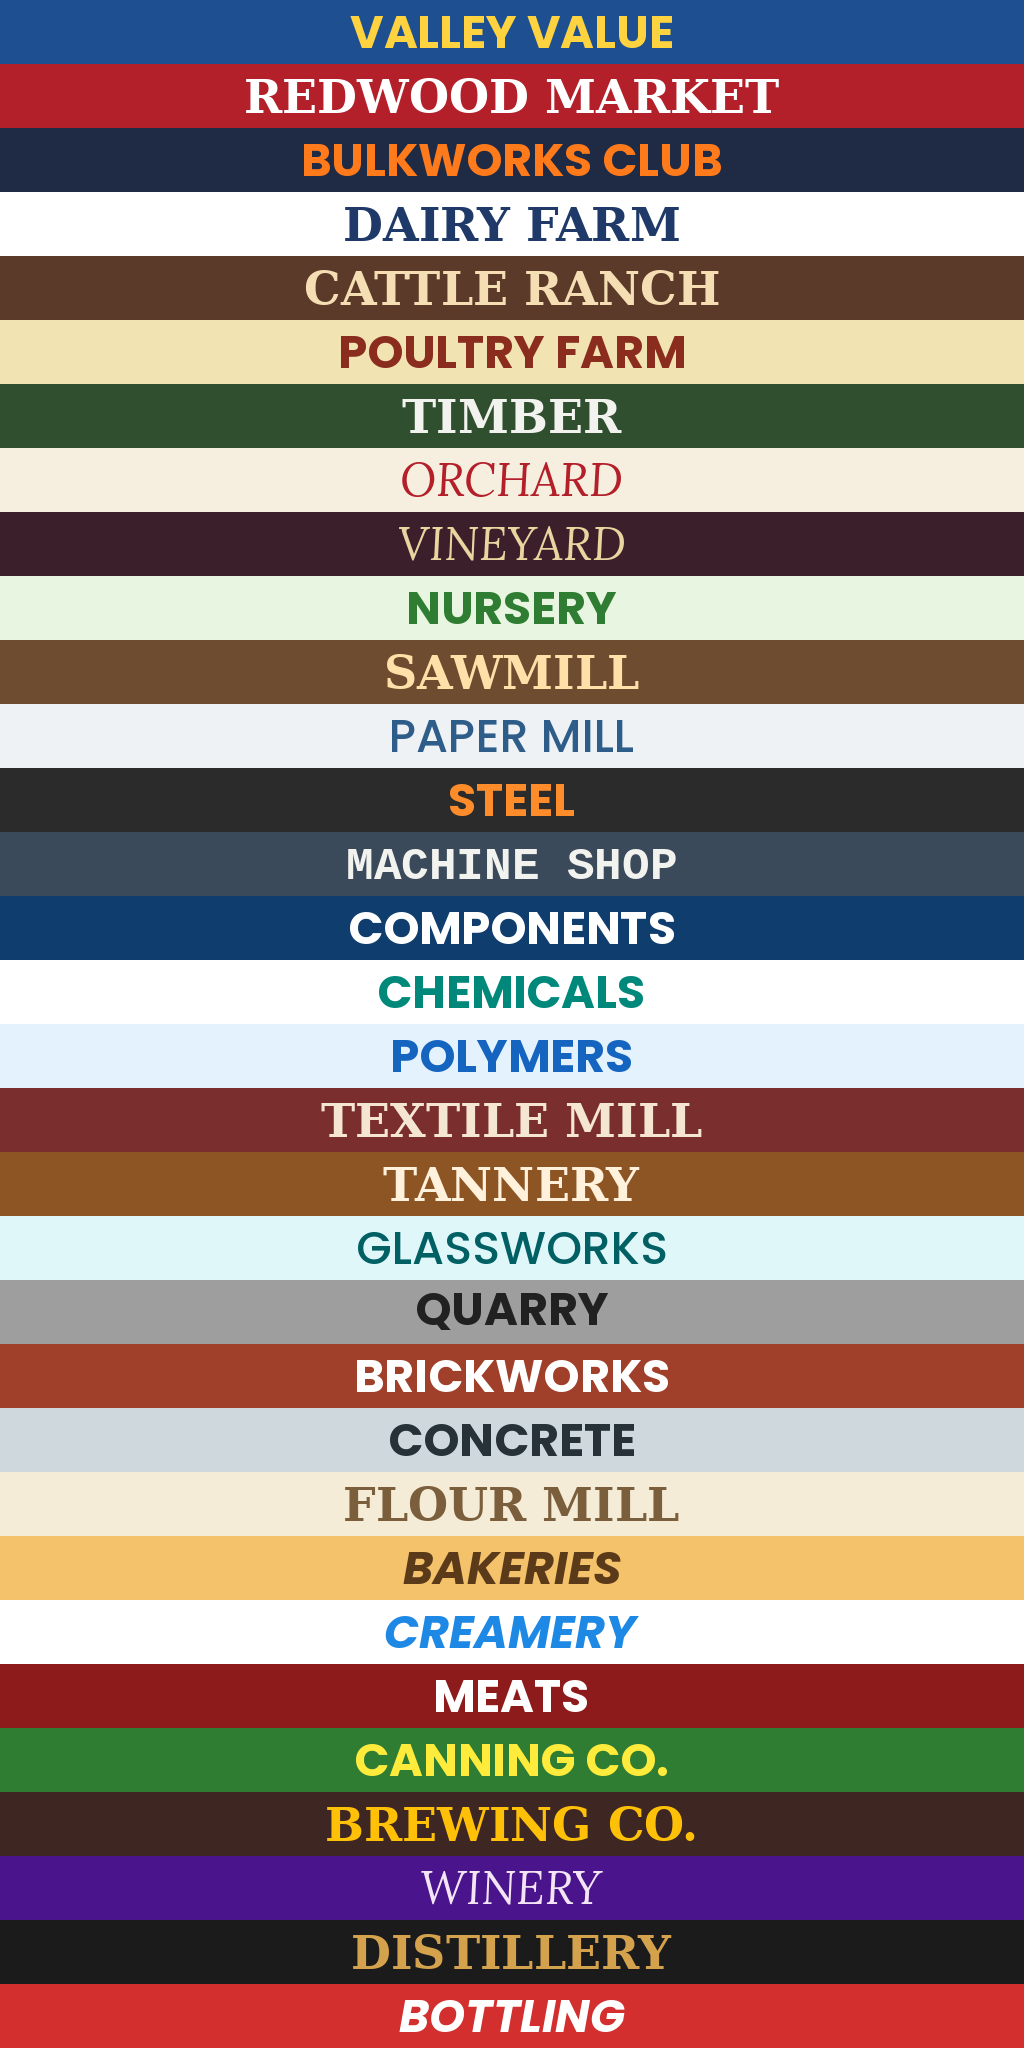
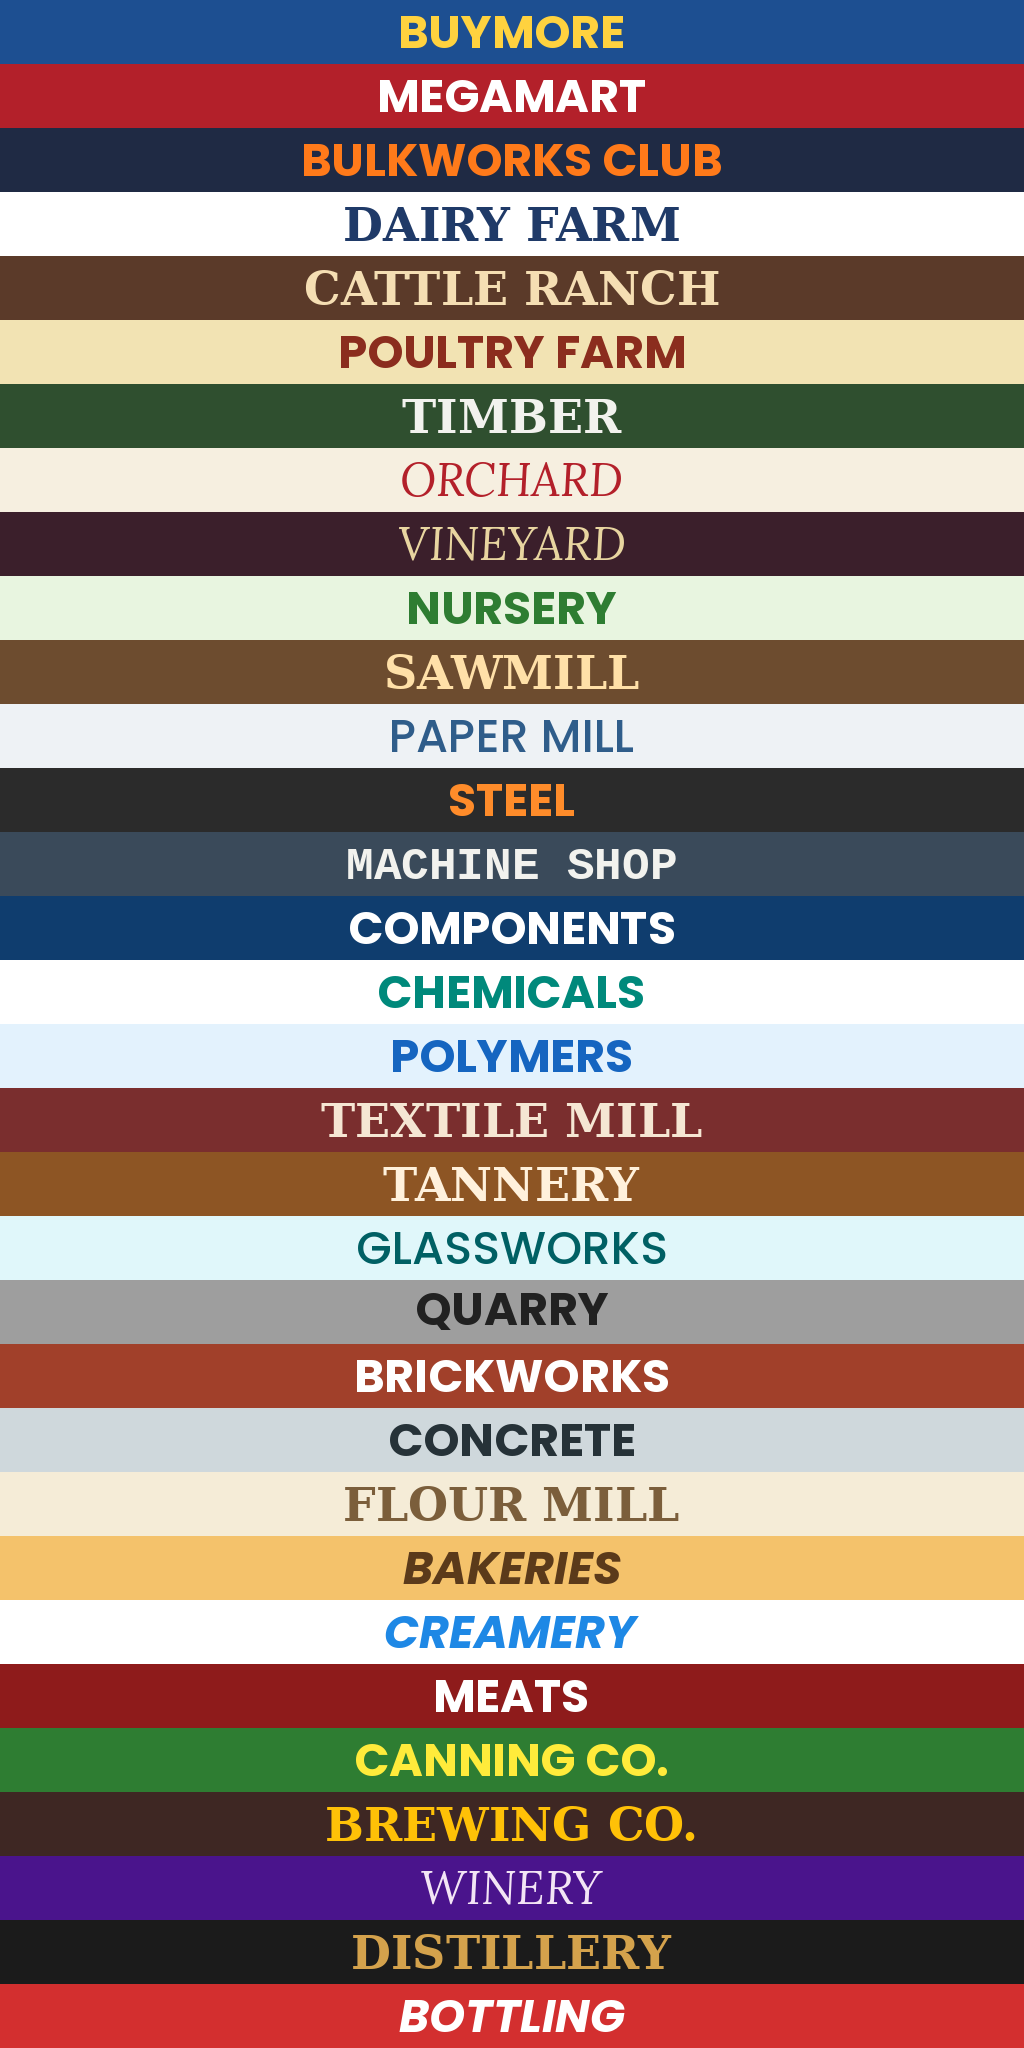
Rename the grocery chains: Valley Value is now Buymore, Redwood Market Megamart
New signs, names, head offices and README; saves are migrated so existing
stores and head offices change their names and signs.

Claude-Session: https://claude.ai/code/session_01XaPpYLet6fNpWnfpmq4pwc

Changed region(s): [[0.2188, 0.0, 0.75, 0.0625]]

diff --git a/Assets/Scripts/Simulation/Defs.cs b/Assets/Scripts/Simulation/Defs.cs
@@ -92,7 +92,7 @@ namespace RealLife.Simulation
         // Visitors and the rest
         Motel, Hotel, BedAndBreakfast, FuneralHome, TaxiCompany,
         // the grocery chains' head offices
-        ValleyValueOffice, RedwoodOffice, BulkworksOffice
+        BuymoreOffice, MegamartOffice, BulkworksOffice
     }
 
     public enum Role
@@ -428,12 +428,12 @@ namespace RealLife.Simulation
             d = D(BuildingType.Park, "Park", 2, 2, Category.Public, Zone.None, 60000, 30, "Somewhere to go for free. Makes the neighbourhood nicer.");
             d.Jobs = J(Role.ParkKeeper, 1); d.Radius = 12; d.Upkeep = 500; d.PlayerBuilds = true;
             // the grocery chains: a local company opens the first store, and another as the town grows
-            d = D(BuildingType.DiscountStore, "Discount supermarket", 3, 3, Category.Commercial, Zone.Commercial, 300000, 220, "A big no-frills grocery store: the lowest prices in town, bought in bulk. The first Valley Value opens when there's a town big enough to fill it; another for every few hundred more households.");
+            d = D(BuildingType.DiscountStore, "Discount supermarket", 3, 3, Category.Commercial, Zone.Commercial, 300000, 220, "A big no-frills grocery store: the lowest prices in town, bought in bulk. The first Buymore opens when there's a town big enough to fill it; another for every few hundred more households.");
             d.Jobs = J(Role.StoreManager, 1, Role.Cashier, 6, Role.StockClerk, 4); d.Sells = Good.Groceries; d.StockCap = 3000; d.Output = 120; d.MinPop = 500; d.Value = 800000;
-            d.Chain = "Valley Value"; d.PriceFactor = 1.0f; d.BulkBuy = 0.88f; d.Appeal = -0.03f; d.PopPerStore = 1100;
-            d = D(BuildingType.Supermarket, "Supermarket", 3, 3, Category.Commercial, Zone.Commercial, 360000, 240, "A bright, well-stocked grocery store: dearer than the discounter, but the families who can afford to care prefer it. Redwood Market comes to bigger towns.");
+            d.Chain = "Buymore"; d.PriceFactor = 1.0f; d.BulkBuy = 0.88f; d.Appeal = -0.03f; d.PopPerStore = 1100;
+            d = D(BuildingType.Supermarket, "Supermarket", 3, 3, Category.Commercial, Zone.Commercial, 360000, 240, "A bright, well-stocked grocery store: dearer than the discounter, but the families who can afford to care prefer it. Megamart comes to bigger towns.");
             d.Jobs = J(Role.StoreManager, 1, Role.Cashier, 5, Role.StockClerk, 4); d.Sells = Good.Groceries; d.StockCap = 2500; d.Output = 100; d.MinPop = 950; d.Value = 900000;
-            d.Chain = "Redwood Market"; d.PriceFactor = 1.1f; d.BulkBuy = 0.9f; d.Appeal = 0.12f; d.PopPerStore = 1600;
+            d.Chain = "Megamart"; d.PriceFactor = 1.1f; d.BulkBuy = 0.9f; d.Appeal = 0.12f; d.PopPerStore = 1600;
             d = D(BuildingType.WarehouseClub, "Warehouse club", 4, 4, Category.Commercial, Zone.Commercial, 500000, 320, "Groceries by the pallet at the lowest prices of all, for those who drive: you can't carry a month's shopping home on the bus. Bulkworks Club comes to big towns.");
             d.Jobs = J(Role.StoreManager, 1, Role.Cashier, 4, Role.StockClerk, 4, Role.WarehouseWorker, 3); d.Sells = Good.Groceries; d.StockCap = 6000; d.Output = 160; d.MinPop = 1800; d.Value = 1250000;
             d.Chain = "Bulkworks Club"; d.PriceFactor = 0.9f; d.BulkBuy = 0.8f; d.Appeal = 0f; d.PopPerStore = 3000; d.NeedsCar = true; d.Floors = 2;

diff --git a/Assets/Scripts/Game/Art/BuildingArt.Offices.cs b/Assets/Scripts/Game/Art/BuildingArt.Offices.cs
@@ -26,8 +26,8 @@ namespace RealLife.Game.Art
                 case BuildingType.BedAndBreakfast: BedAndBreakfast(k, w, d, ref s, closed, season); break;
                 case BuildingType.FuneralHome: FuneralHome(k, w, d, ref s, closed, season); break;
                 case BuildingType.TaxiCompany: Taxi(k, w, d, ref s, closed, season); break;
-                case BuildingType.ValleyValueOffice:
-                case BuildingType.RedwoodOffice:
+                case BuildingType.BuymoreOffice:
+                case BuildingType.MegamartOffice:
                 case BuildingType.BulkworksOffice: ChainOffice(k, w, d, ref s, closed, season, t); break;
                 default:
                     // anything still without a model of its own: a plain shop with its sign
@@ -301,9 +301,9 @@ namespace RealLife.Game.Art
         {
             Sidewalk(k, w, d);
             string upper; Color32 band, accent; int sign;
-            if (t == BuildingType.RedwoodOffice) { upper = "fac_apt_cream"; band = H("#b3202a"); accent = H("#f5f6fa"); sign = SignRow.Redwood; }
+            if (t == BuildingType.MegamartOffice) { upper = "fac_apt_cream"; band = H("#b3202a"); accent = H("#f5f6fa"); sign = SignRow.Megamart; }
             else if (t == BuildingType.BulkworksOffice) { upper = "fac_metal_grey"; band = H("#1f2a44"); accent = H("#ff7a1a"); sign = SignRow.Bulkworks; }
-            else { upper = "fac_glass_blue"; band = H("#1d4f91"); accent = H("#ffd23f"); sign = SignRow.ValleyValue; }
+            else { upper = "fac_glass_blue"; band = H("#1d4f91"); accent = H("#ffd23f"); sign = SignRow.Buymore; }
             var skin = new Skin { Upper = upper, Floor = 3.4f, Bay = 3f, Ground = "gf_lobby", GroundH = 4.2f, Wall = "wall_stucco", Coping = band, Glow = 1.4f };
             float x0 = -w / 2 + 0.5f, x1 = w / 2 - 0.5f, z0 = -d / 2 + 2.4f, z1 = d / 2 - 0.5f;
             float top = Block(k, x0, x1, z0, z1, skin, 2, (int)(Next(ref s) % 4), 0, true, true, "roof_membrane", season, closed);

diff --git a/Assets/Scripts/Game/Art/BuildingArt.Public.cs b/Assets/Scripts/Game/Art/BuildingArt.Public.cs
@@ -558,8 +558,8 @@ namespace RealLife.Game.Art
             Material wall, band, accent;
             int sign;
             if (club) { wall = T("metal_panel", new Color(0.72f, 0.75f, 0.78f)); band = C(H("#1f2a44"), 0.35f); accent = C(H("#ff7a1a"), 0.35f); sign = SignRow.Bulkworks; }
-            else if (nice) { wall = T("wall_stucco", new Color(0.93f, 0.88f, 0.8f)); band = C(H("#b3202a"), 0.4f); accent = C(H("#f5f6fa"), 0.35f); sign = SignRow.Redwood; }
-            else { wall = T("metal_panel", new Color(0.9f, 0.91f, 0.93f)); band = C(H("#1d4f91"), 0.35f); accent = C(H("#ffd23f"), 0.35f); sign = SignRow.ValleyValue; }
+            else if (nice) { wall = T("wall_stucco", new Color(0.93f, 0.88f, 0.8f)); band = C(H("#b3202a"), 0.4f); accent = C(H("#f5f6fa"), 0.35f); sign = SignRow.Megamart; }
+            else { wall = T("metal_panel", new Color(0.9f, 0.91f, 0.93f)); band = C(H("#1d4f91"), 0.35f); accent = C(H("#ffd23f"), 0.35f); sign = SignRow.Buymore; }
             var faces = Faces(x0, x1, z0, z1);
             var front = faces[South];
             float W = front.Width, g0 = W * 0.38f, g1 = W * 0.62f;
@@ -785,8 +785,8 @@ namespace RealLife.Game.Art
                 case BuildingType.Trucking:
                 case BuildingType.BusDepot: return 9.2f;
                 case BuildingType.Hotel: return 26;
-                case BuildingType.ValleyValueOffice:
-                case BuildingType.RedwoodOffice:
+                case BuildingType.BuymoreOffice:
+                case BuildingType.MegamartOffice:
                 case BuildingType.BulkworksOffice: return 12;
                 case BuildingType.Cinema:
                 case BuildingType.ClimbingGym:

diff --git a/Assets/Scripts/Simulation/Town.Ownership.cs b/Assets/Scripts/Simulation/Town.Ownership.cs
@@ -366,6 +366,16 @@ namespace RealLife.Simulation
             MapVersion++;
         }
 
+        /// <summary>Valley Value became Buymore, and Redwood Market Megamart: the stores and head offices change their signs.</summary>
+        void RenameChains()
+        {
+            foreach (var b in Buildings)
+            {
+                if (b.Brand != null) b.Brand = b.Brand.Replace("Valley Value", "Buymore").Replace("Redwood Market", "Megamart");
+                if (b.OwnerName != null) b.OwnerName = b.OwnerName.Replace("Valley Value", "Buymore").Replace("Redwood Market", "Megamart");
+            }
+        }
+
         /// <summary>Brings a game saved before everything was locally owned up to date: firms out of town sell to families and
         /// property firms here, and farms get farmland.</summary>
         public void Migrate()
@@ -376,6 +386,7 @@ namespace RealLife.Simulation
                 if (SaveVersion < 3) MigrateCars();
                 if (SaveVersion < 4) MigrateFlats();
                 if (SaveVersion < 5) WindDownContracts();
+                if (SaveVersion < 6) RenameChains();
                 SaveVersion = CurrentVersion; return;
             }
             foreach (var b in Buildings)

diff --git a/Assets/Scripts/Simulation/Catalog.cs b/Assets/Scripts/Simulation/Catalog.cs
@@ -492,8 +492,8 @@ namespace RealLife.Simulation
             d.In(Good.Toiletries, 0.4f).In(Good.Groceries, 0.12f); d.Floors = 2;
             Fun(BuildingType.FuneralHome, "Funeral home", 1, 1, 150000, 60, 300000, Service.Funeral, 8500, 2, 1500, 4000, " Funeral Home", "Funerals for the town's dead. Families pay, here or in the next town.", 0, Role.Mortician, 1);
             // ---------------------------------------------------------------- the grocery chains' head offices
-            HeadOffice(BuildingType.ValleyValueOffice, BuildingType.DiscountStore);
-            HeadOffice(BuildingType.RedwoodOffice, BuildingType.Supermarket);
+            HeadOffice(BuildingType.BuymoreOffice, BuildingType.DiscountStore);
+            HeadOffice(BuildingType.MegamartOffice, BuildingType.Supermarket);
             HeadOffice(BuildingType.BulkworksOffice, BuildingType.WarehouseClub);
 
             d = Fun(BuildingType.TaxiCompany, "Taxi company", 1, 1, 80000, 30, 170000, Service.Rides, 20, 60, 400, 1500, " Taxi", "Rides for people without a car.", 0, Role.Driver, 3);

diff --git a/Assets/Scripts/Simulation/Town.Chains.cs b/Assets/Scripts/Simulation/Town.Chains.cs
@@ -5,7 +5,7 @@ using System.Linq;
 namespace RealLife.Simulation
 {
     /// <summary>
-    /// The grocery chains: Valley Value (the discounter), Redwood Market (the nicer supermarket) and Bulkworks Club (the
+    /// The grocery chains: Buymore (the discounter), Megamart (the nicer supermarket) and Bulkworks Club (the
     /// warehouse club, for drivers). Each is a company here: a local family opens the first store when the town's grocery
     /// shopping would keep one going (sooner if the grocers here are dear), and the chain opens another as the town grows and
     /// its stores fill up. They buy in bulk and sell cheaper than a corner grocery; the small grocers keep the people who walk

diff --git a/tools/SimTest/Program.cs b/tools/SimTest/Program.cs
@@ -57,6 +57,8 @@ static class Program
             for (int y = 64; y < 75; y++) for (int x = 38; x < 56; x++) t.SetZone(x, y, Zone.Residential);
             for (int x = 38; x <= 56; x++) t.PlaceRoad(x, 70);
         }
+        if (Environment.GetEnvironmentVariable("BRANDS") == "1")
+            foreach (var b in t.Buildings.Where(x => !string.IsNullOrEmpty(x.Brand) && Town.ChainOf(x) != null)) Console.WriteLine("  brand " + b.Type + " " + b.Brand + " / " + b.OwnerName);
         Header();
         Row(t);
         int firstDay = t.Day;

diff --git a/Assets/Scripts/Game/Art/BuildingArt.cs b/Assets/Scripts/Game/Art/BuildingArt.cs
@@ -13,7 +13,7 @@ namespace RealLife.Game.Art
             Elementary = 19, HighSchool = 20, College = 21, BusDepot = 22, Logistics = 23, Builders = 24, Foods = 25, ApparelCo = 26, Tech = 27,
             Workshop = 28, Apartments = 29, RealEstate = 30, Open = 31,
             // the second atlas (signs2): the grocery chains
-            ValleyValue = 32, Redwood = 33, Bulkworks = 34;
+            Buymore = 32, Megamart = 33, Bulkworks = 34;
     }
 
     /// <summary>

diff --git a/tools/textures/signs.py b/tools/textures/signs.py
@@ -49,8 +49,8 @@ SIGNS = [
 
 # the second atlas (signs2.png): the grocery chains. Its rows are SignRow 32 onwards.
 SIGNS2 = [
-    ('VALLEY VALUE', '#1d4f91', '#ffd23f', '#ffe27a', FONT_BOLD),
-    ('REDWOOD MARKET', '#b3202a', '#ffffff', '#ffe5e5', FONT_SERIF),
+    ('BUYMORE', '#1d4f91', '#ffd23f', '#ffe27a', FONT_BOLD),
+    ('MEGAMART', '#b3202a', '#ffffff', '#ffe5e5', FONT_BOLD),
     ('BULKWORKS CLUB', '#1f2a44', '#ff7a1a', '#ff9a4a', FONT_BOLD),
 ]
 

diff --git a/Assets/Scripts/Simulation/Town.cs b/Assets/Scripts/Simulation/Town.cs
@@ -12,7 +12,7 @@ namespace RealLife.Simulation
     [Serializable]
     public partial class Town
     {
-        public const int CurrentVersion = 5;
+        public const int CurrentVersion = 6;
         public const int StartYear = 2025;
 
         public int SaveVersion = CurrentVersion;

diff --git a/README.md b/README.md
@@ -124,7 +124,7 @@ where they're going, or, if there's none or it's full, at the kerb outside, wher
 Parked cars stay in their spots until their drivers come back for them. Given the choice, drivers shop where they can park.
 
 **Grocery chains.** Besides the corner grocery stores there are three chains, each a local company: a family here opens the
-first store and runs it. Valley Value is the discounter (from about 500 people), Redwood Market the nicer supermarket that
+first store and runs it. Buymore is the discounter (from about 500 people), Megamart the nicer supermarket that
 better-off families prefer even at a bit more (from about 950), and Bulkworks Club the warehouse club, cheapest of all but
 only for those with a car, and worth a longer drive (from about 1,800). A chain comes when the town's grocery shopping would
 keep a store going (sooner if the grocers here are dear) and there's a free commercial lot big enough: 3 x 3 for the first
@@ -134,7 +134,7 @@ the small grocers keep the people who walk to the shops, and some close. To grow
 office** downtown (a 1 x 1 commercial lot that isn't part of one big enough for a store), with an executive, accountants,
 clerks and a designer: it owns the stores, takes their profits, does their books and ads, and decides when the town needs
 another. It opens one only when its stores are full and turning people away, the town's other grocers can't take them
-either, the town has grown into it (Valley Value about every 1,100 people, Redwood every 1,600, Bulkworks every 3,000), and
+either, the town has grown into it (Buymore about every 1,100 people, Megamart every 1,600, Bulkworks every 3,000), and
 there's a lot well away from its other stores, in a part of town they're far from. Each store has its own car park, and a
 store that keeps losing money closes like any other. The inspector shows a store's chain and who runs it, and a head
 office's stores.
